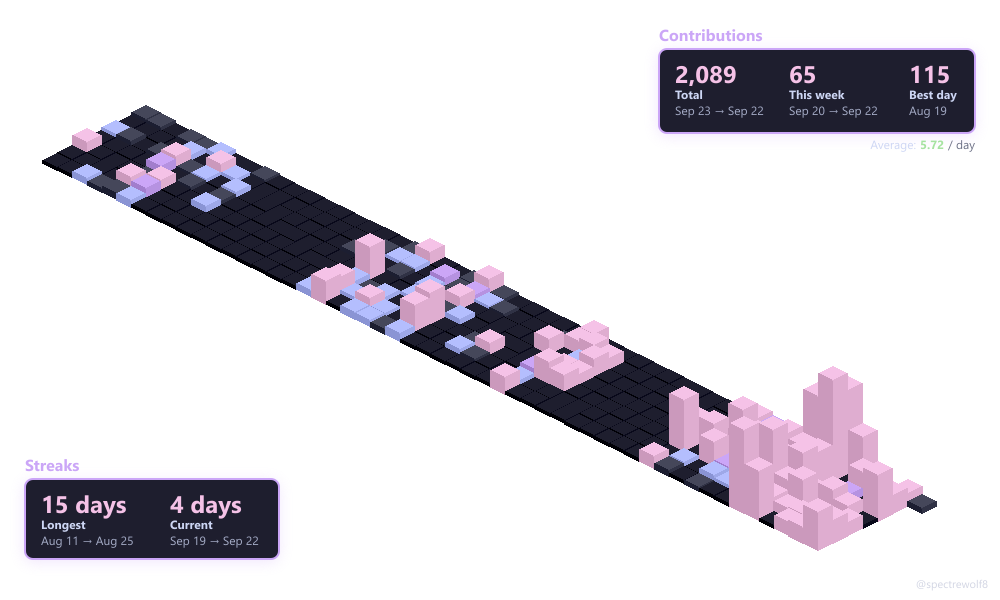
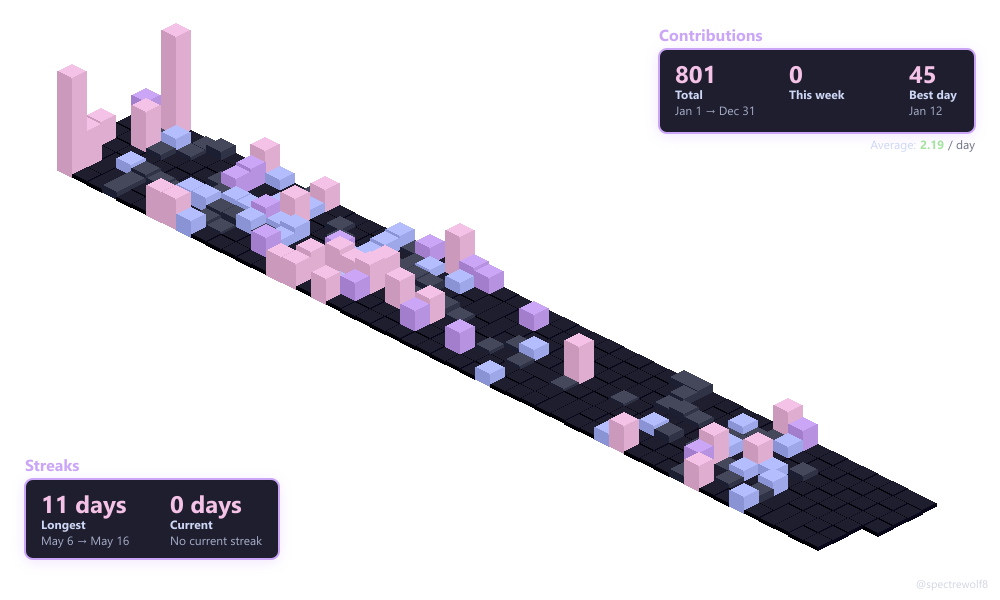
feat(docs): redesign theme gallery as cards, refresh previews to 2025
- Replace the theme table with a responsive card grid: one card per theme
  showing the name, an inline theme=... code block, and a larger preview.
  Cards break out wider than the body so three fit per row on desktop, drop
  to two then one on narrow screens, and a partial last row stays centered.
- Regenerate every theme preview with year=2025 (stats + credit) for a
  consistent full-year sample; the rolling-window image stays on year=none.

diff --git a/docs/index.html b/docs/index.html
@@ -499,6 +499,57 @@
         pointer-events: none;
         user-select: none;
       }
+
+      /* Theme Gallery: one card per theme */
+      .theme-grid {
+        display: flex;
+        flex-wrap: wrap;
+        justify-content: center;
+        gap: 18px;
+        /* Break out wider than the 900px body so 3 cards can be larger */
+        width: min(1120px, calc(100vw - 48px));
+        margin: 24px 0;
+        margin-left: 50%;
+        transform: translateX(-50%);
+      }
+      .theme-card {
+        display: flex;
+        flex-direction: column;
+        flex: 1 1 300px;
+        max-width: 352px;
+        border: 1px solid var(--border-color);
+        border-radius: 8px;
+        overflow: hidden;
+        background: var(--bg-secondary);
+      }
+      .theme-card img {
+        width: 100%;
+        display: block;
+        background: var(--bg-tertiary);
+        border-top: 1px solid var(--border-color);
+      }
+      .theme-card-title {
+        display: flex;
+        align-items: baseline;
+        justify-content: space-between;
+        gap: 8px;
+        flex-wrap: wrap;
+        padding: 10px 12px;
+        font-weight: 600;
+        font-size: 14px;
+        color: var(--text-primary);
+      }
+      .theme-card-title code {
+        font-weight: 400;
+        font-size: 11px;
+        font-family: "SFMono-Regular", Consolas, monospace;
+        padding: 2px 6px;
+        background: var(--bg-primary);
+        border: 1px solid var(--border-color);
+        border-radius: 5px;
+        color: var(--text-secondary);
+        word-break: break-all;
+      }
       .fb-toggles {
         display: flex;
         gap: 20px;
@@ -1043,180 +1094,60 @@
 
     <h2>Theme Gallery</h2>
     <p>Preview different themes with the same data:</p>
-    <table style="text-align: center">
-      <thead>
-        <tr>
-          <th>Theme</th>
-          <th>Preview</th>
-          <th>URL</th>
-        </tr>
-      </thead>
-      <tbody>
-        <tr>
-          <td><strong>GitHub</strong></td>
-          <td>
-            <img
-              src="/media/examples/output-github.png"
-              alt="GitHub Theme"
-              style="max-width: 200px; border: 1px solid #ddd"
-            />
-          </td>
-          <td>
-            <code>/api/graph?username=spectrewolf8&amp;theme=github</code>
-          </td>
-        </tr>
-        <tr>
-          <td><strong>Dark</strong></td>
-          <td>
-            <img
-              src="/media/examples/output-dark.png"
-              alt="Dark Theme"
-              style="max-width: 200px; border: 1px solid #ddd"
-            />
-          </td>
-          <td><code>/api/graph?username=spectrewolf8&amp;theme=dark</code></td>
-        </tr>
-        <tr>
-          <td><strong>Light</strong></td>
-          <td>
-            <img
-              src="/media/examples/output-light.png"
-              alt="Light Theme"
-              style="max-width: 200px; border: 1px solid #ddd"
-            />
-          </td>
-          <td><code>/api/graph?username=spectrewolf8&amp;theme=light</code></td>
-        </tr>
-        <tr>
-          <td><strong>Neon</strong></td>
-          <td>
-            <img
-              src="/media/examples/output-neon.png"
-              alt="Neon Theme"
-              style="max-width: 200px; border: 1px solid #ddd"
-            />
-          </td>
-          <td><code>/api/graph?username=spectrewolf8&amp;theme=neon</code></td>
-        </tr>
-        <tr>
-          <td><strong>Minimal</strong></td>
-          <td>
-            <img
-              src="/media/examples/output-minimal.png"
-              alt="Minimal Theme"
-              style="max-width: 200px; border: 1px solid #ddd"
-            />
-          </td>
-          <td>
-            <code>/api/graph?username=spectrewolf8&amp;theme=minimal</code>
-          </td>
-        </tr>
-        <tr>
-          <td><strong>Ocean</strong></td>
-          <td>
-            <img
-              src="/media/examples/output-ocean.png"
-              alt="Ocean Theme"
-              style="max-width: 200px; border: 1px solid #ddd"
-            />
-          </td>
-          <td><code>/api/graph?username=spectrewolf8&amp;theme=ocean</code></td>
-        </tr>
-        <tr>
-          <td><strong>Catppuccin</strong></td>
-          <td>
-            <img
-              src="/media/examples/output-catppuccin.png"
-              alt="Catppuccin Theme"
-              style="max-width: 200px; border: 1px solid #ddd"
-            />
-          </td>
-          <td>
-            <code>/api/graph?username=spectrewolf8&amp;theme=catppuccin</code>
-          </td>
-        </tr>
-        <tr>
-          <td><strong>Dracula</strong></td>
-          <td>
-            <img
-              src="/media/examples/output-dracula.png"
-              alt="Dracula Theme"
-              style="max-width: 200px; border: 1px solid #ddd"
-            />
-          </td>
-          <td>
-            <code>/api/graph?username=spectrewolf8&amp;theme=dracula</code>
-          </td>
-        </tr>
-        <tr>
-          <td><strong>Crimson</strong></td>
-          <td>
-            <img
-              src="/media/examples/output-crimson.png"
-              alt="Crimson Theme"
-              style="max-width: 200px; border: 1px solid #ddd"
-            />
-          </td>
-          <td>
-            <code>/api/graph?username=spectrewolf8&amp;theme=crimson</code>
-          </td>
-        </tr>
-        <tr>
-          <td><strong>Tokyo Night</strong></td>
-          <td>
-            <img
-              src="/media/examples/output-tokyonight.png"
-              alt="Tokyo Night Theme"
-              style="max-width: 200px; border: 1px solid #ddd"
-            />
-          </td>
-          <td>
-            <code>/api/graph?username=spectrewolf8&amp;theme=tokyonight</code>
-          </td>
-        </tr>
-        <tr>
-          <td><strong>Sunset</strong></td>
-          <td>
-            <img
-              src="/media/examples/output-sunset.png"
-              alt="Sunset Theme"
-              style="max-width: 200px; border: 1px solid #ddd"
-            />
-          </td>
-          <td>
-            <code>/api/graph?username=spectrewolf8&amp;theme=sunset</code>
-          </td>
-        </tr>
-        <tr>
-          <td><strong>Sakura</strong></td>
-          <td>
-            <img
-              src="/media/examples/output-sakura.png"
-              alt="Sakura Theme"
-              style="max-width: 200px; border: 1px solid #ddd"
-            />
-          </td>
-          <td>
-            <code>/api/graph?username=spectrewolf8&amp;theme=sakura</code>
-          </td>
-        </tr>
-        <tr>
-          <td>
-            <strong> (Default)</strong><br /><strong
-              >365-Day Rolling Window</strong
-            >
-          </td>
-          <td>
-            <img
-              src="/media/examples/output-rolling-window.png"
-              alt="365-Day Rolling Window"
-              style="max-width: 200px; border: 1px solid #ddd"
-            />
-          </td>
-          <td><code>/api/graph?username=spectrewolf8&amp;year=none</code></td>
-        </tr>
-      </tbody>
-    </table>
+    <div class="theme-grid">
+      <div class="theme-card">
+        <div class="theme-card-title"><span>GitHub</span><code>?theme=github</code></div>
+        <img src="/media/examples/output-github.png" alt="GitHub Theme" loading="lazy" />
+      </div>
+      <div class="theme-card">
+        <div class="theme-card-title"><span>Dark</span><code>?theme=dark</code></div>
+        <img src="/media/examples/output-dark.png" alt="Dark Theme" loading="lazy" />
+      </div>
+      <div class="theme-card">
+        <div class="theme-card-title"><span>Light</span><code>?theme=light</code></div>
+        <img src="/media/examples/output-light.png" alt="Light Theme" loading="lazy" />
+      </div>
+      <div class="theme-card">
+        <div class="theme-card-title"><span>Neon</span><code>?theme=neon</code></div>
+        <img src="/media/examples/output-neon.png" alt="Neon Theme" loading="lazy" />
+      </div>
+      <div class="theme-card">
+        <div class="theme-card-title"><span>Minimal</span><code>?theme=minimal</code></div>
+        <img src="/media/examples/output-minimal.png" alt="Minimal Theme" loading="lazy" />
+      </div>
+      <div class="theme-card">
+        <div class="theme-card-title"><span>Ocean</span><code>?theme=ocean</code></div>
+        <img src="/media/examples/output-ocean.png" alt="Ocean Theme" loading="lazy" />
+      </div>
+      <div class="theme-card">
+        <div class="theme-card-title"><span>Catppuccin</span><code>?theme=catppuccin</code></div>
+        <img src="/media/examples/output-catppuccin.png" alt="Catppuccin Theme" loading="lazy" />
+      </div>
+      <div class="theme-card">
+        <div class="theme-card-title"><span>Dracula</span><code>?theme=dracula</code></div>
+        <img src="/media/examples/output-dracula.png" alt="Dracula Theme" loading="lazy" />
+      </div>
+      <div class="theme-card">
+        <div class="theme-card-title"><span>Crimson</span><code>?theme=crimson</code></div>
+        <img src="/media/examples/output-crimson.png" alt="Crimson Theme" loading="lazy" />
+      </div>
+      <div class="theme-card">
+        <div class="theme-card-title"><span>Tokyo Night</span><code>?theme=tokyonight</code></div>
+        <img src="/media/examples/output-tokyonight.png" alt="Tokyo Night Theme" loading="lazy" />
+      </div>
+      <div class="theme-card">
+        <div class="theme-card-title"><span>Sunset</span><code>?theme=sunset</code></div>
+        <img src="/media/examples/output-sunset.png" alt="Sunset Theme" loading="lazy" />
+      </div>
+      <div class="theme-card">
+        <div class="theme-card-title"><span>Sakura</span><code>?theme=sakura</code></div>
+        <img src="/media/examples/output-sakura.png" alt="Sakura Theme" loading="lazy" />
+      </div>
+      <div class="theme-card">
+        <div class="theme-card-title"><span>365-Day Rolling Window</span><code>?year=none</code></div>
+        <img src="/media/examples/output-rolling-window.png" alt="365-Day Rolling Window" loading="lazy" />
+      </div>
+    </div>
 
     <h2>Examples</h2>
 
